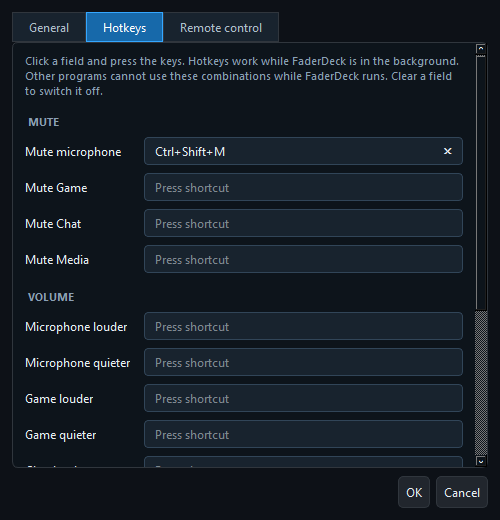
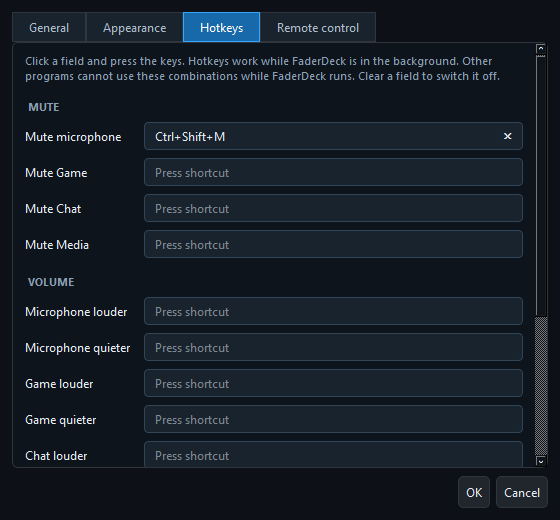
docs(readme): add themes and channel names for v1.6.0
The README gets a Themes and Colours section with two new pictures (the FaderDeck theme and the Appearance settings), mentions channel names under Mixer Control, and moves both from Next to Done on the roadmap. The main window and Hotkeys pictures are refreshed; the Settings window now has an Appearance tab. They were taken against the live mixer, with the meter levels set for the picture.

HANDOVER explains how themes translate the dark theme's colours, why a channel colour may be used only once, and that channel names change only what is shown.

Changed region(s): [[0.03, 0.0, 0.99, 0.8923], [0.81, 0.9231, 0.99, 0.9538]]

diff --git a/README.md b/README.md
@@ -19,6 +19,7 @@ Control your four VoiceMeeter channels directly from FaderDeck: Microphone, Game
 - Fader with a dB scale, and live level meters on every channel
 - Mute, Solo and Mono
 - Output routing A1–A3 and B1–B3, shown with the bus names you gave them in VoiceMeeter
+- Your own names for Game, Chat and Media (Settings, General), for example "Music" instead of "Media"
 - Reconnects by itself when VoiceMeeter is closed and started again
 - A draggable divider between the mixer and the lower panels
 
@@ -27,6 +28,19 @@ Control your four VoiceMeeter channels directly from FaderDeck: Microphone, Game
 A button in the header shrinks the window to the four channels with fader, meters, level and Mute. It fits in 520×300, remembers its own size and place, and FaderDeck starts in the view it was closed in. Hotkeys and profiles keep working.
 
 ![Compact view](screenshots/compact.png)
+
+### Themes and Colours
+
+Under Settings, Appearance you choose how FaderDeck looks, and every change shows at once; Cancel puts the old colours back.
+
+- Built-in themes: **Dark**, **Light**, and **FaderDeck**, which follows the logo's blue-to-purple gradient across the four channels
+- An accent colour that replaces the blue throughout the window
+- A colour of your own for each channel, to match your setup
+- **Save as** keeps your colours as a theme of your own, to switch back to later
+
+![FaderDeck theme](screenshots/themes.png)
+
+![Appearance settings](screenshots/settings-appearance.png)
 
 ### Setup Profiles
 
@@ -298,16 +312,14 @@ The core mixer, microphone processing, application routing, live audio meters, a
 
 ## Roadmap
 
-Done so far: reconnect, meters on every channel, global hotkeys for mute, volume and profiles, system tray, settings window, voice presets, setup profiles, single running instance, compact view, remote control.
+Done so far: reconnect, meters on every channel, global hotkeys for mute, volume and profiles, system tray, settings window, voice presets, setup profiles, single running instance, compact view, remote control, your own channel names, themes with light mode and your own colours.
 
 Next, roughly in this order:
 
 1. A Windows installer, and a signed EXE so Windows does not warn about it
-2. Your own names for the Game, Chat and Media channels
-3. Support for VoiceMeeter Banana and the standard edition
-4. Light mode and custom themes
-5. Automatic updates
-6. An Android app to control FaderDeck from a tablet or phone on your own network
+2. Support for VoiceMeeter Banana and the standard edition
+3. Automatic updates
+4. An Android app to control FaderDeck from a tablet or phone on your own network
 
 ## Support
 

diff --git a/HANDOVER.md b/HANDOVER.md
@@ -184,6 +184,15 @@ The program was called VMStreamer up to v1.4.0 and FaderDeck from v1.5.0. VB-Aud
 
 The single-instance name changed with the rename, so an old VMStreamer and FaderDeck can run side by side and will then fight over the hotkeys. Quit the old one first.
 
+## Themes (v1.6.0)
+
+Every colour in `main.py` is written for the dark theme. A theme is a translation of those colours, applied where they reach Qt: `QWidget.setStyleSheet` (patched once at import), the module's own `QColor` subclass for `QColor("#rrggbb")`, and `translate_colors()` for the drawn icons. The default theme translates nothing.
+
+- Live switching: each widget keeps the style sheet it was given in the `themeSource` property; `apply_theme()` translates every one again. Icons shown with `set_mono_icon()` are redrawn the same way. A colour turned into a `QColor` once at build time and kept would not follow a switch: create it where it is painted.
+- A channel colour replaces that channel's three `STRIP_COLORS` values, so those values may appear nowhere else. A test checks this. `PANEL_BORDER`, `ALERT_BORDER` and `COMPRESSOR_MARK` exist for that reason: they look the same but are one step off.
+- Settings: `theme` holds the active theme as JSON and `themes` the user's saved ones. `clean_theme()` drops anything malformed.
+- Channel names (`channel_name_game` and so on) change only what is shown. The built-in names stay the keys for settings, profiles, hotkeys and the local API.
+
 ## Logo
 
 The mark is drawn once, as `LOGO_SVG` in `main.py`: three white faders on a blue-to-purple tile. The header shows it next to the name, which `Wordmark` paints: "Fader" in white and "Deck" in the tile's gradient (`LOGO_GRADIENT`). `faderdeck.ico` is generated from the same drawing by `tools/make_icon.py`; run it after changing the drawing, and commit the icon.
